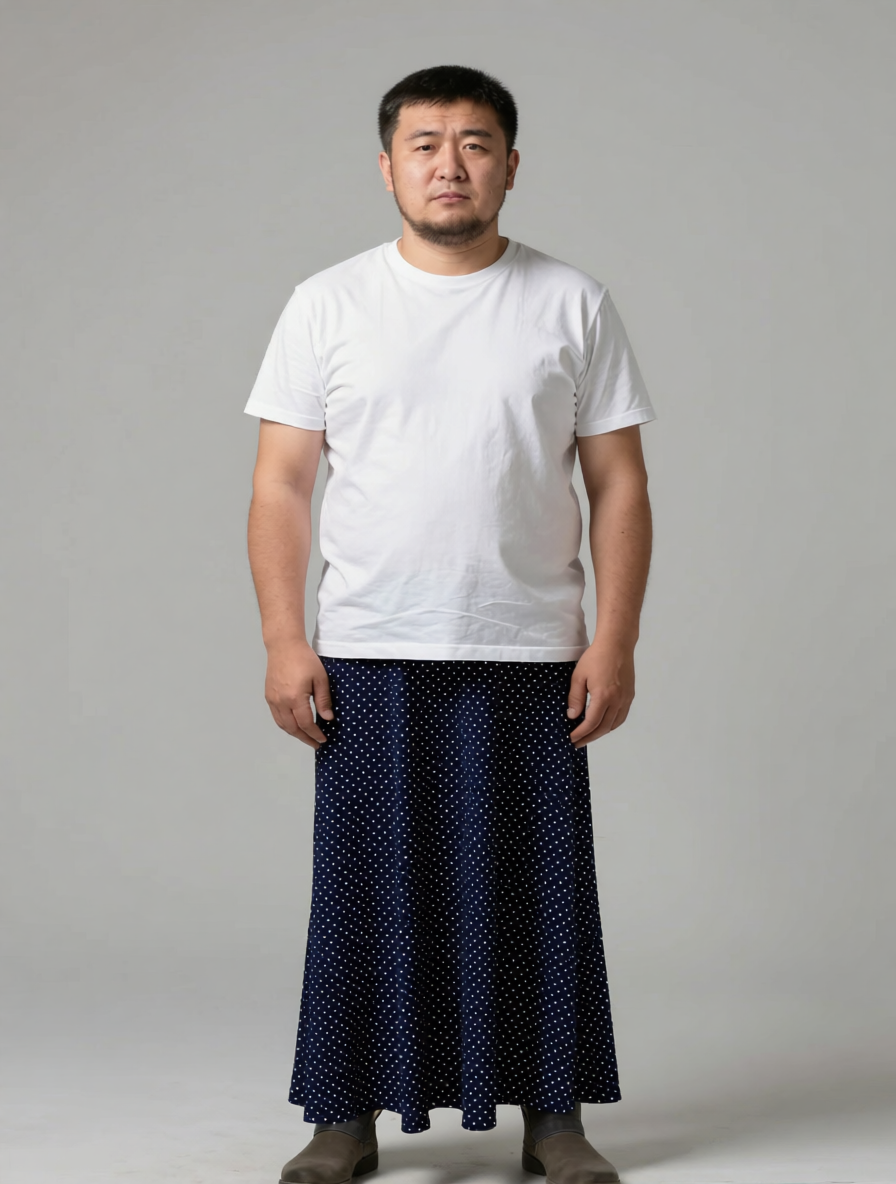
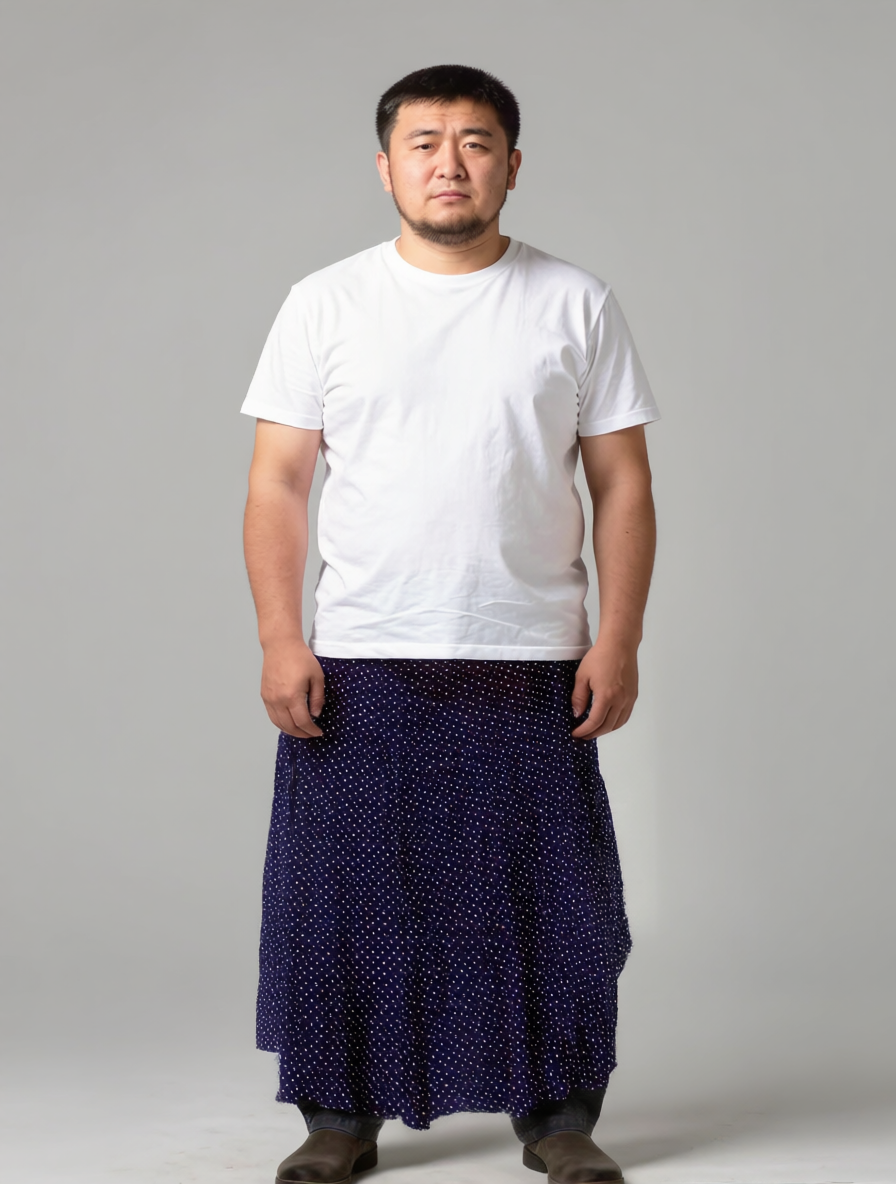
A bottom routes itself to the engine that can be told where it goes
The seller answers one question about their garment and that answer now
decides the engine. Bottoms go to /instruct, which reads the instruction and
puts the skirt on the waist; everything else stays on the layering adapter,
which copies a garment more faithfully and already puts tops where they
belong.

Measured on the same skirt and seed: the adapter tied it across the chest,
instruct with Lightning at eight steps put it on the waist with the print
intact, in 25 seconds against 27.

Changed region(s): [[0.25, 0.2188, 0.75, 1.0], [0.4062, 0.0625, 0.5938, 0.25], [0.2812, 0.2812, 0.3125, 0.3125]]

diff --git a/service/app.py b/service/app.py
@@ -306,7 +306,23 @@ def create_job(req: JobRequest, conn=Depends(db), user=Depends(current_user)):
               "gender": req.gender or "woman", "age": req.age or "20s",
               "build": req.build or "average", "look": req.look or "uzbek",
               "modest": "true" if req.modest else "false",
-              "engine": req.engine or "adapter",
+              # Which engine dresses the model, decided by the seller's own
+              # answer rather than by a switch they would have to understand.
+              #
+              # The layering adapter wears everything on the torso: a skirt
+              # comes back tied across the chest, and no wording changes it --
+              # the adapter is deaf to text, measured five ways. Taking it off
+              # gives up some of its fidelity and buys the one thing it cannot
+              # do, which is being told where the garment goes. For a bottom
+              # that trade is obviously worth making; for a top it is not,
+              # because the adapter already puts tops where they belong and
+              # copies them better.
+              #
+              # So "Bottom" routes itself. The seller answered a question about
+              # their garment, not about our engines, and this is what makes
+              # that answer count where it matters most.
+              "engine": req.engine or (
+                  "instruct" if req.mode == "lower" else "adapter"),
               "ratio": req.ratio or "9:16",
               "seconds": req.seconds or 5,
               "prompt": (req.prompt or "").strip()}
